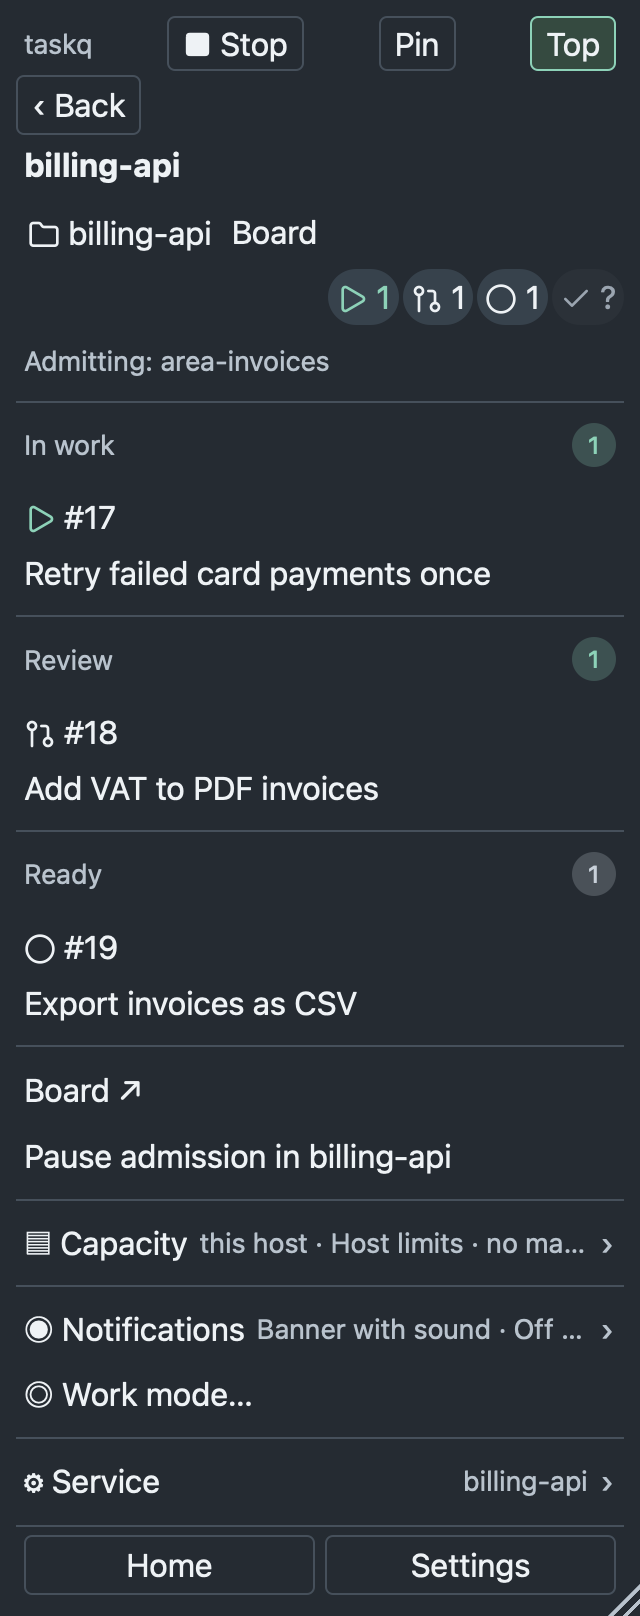
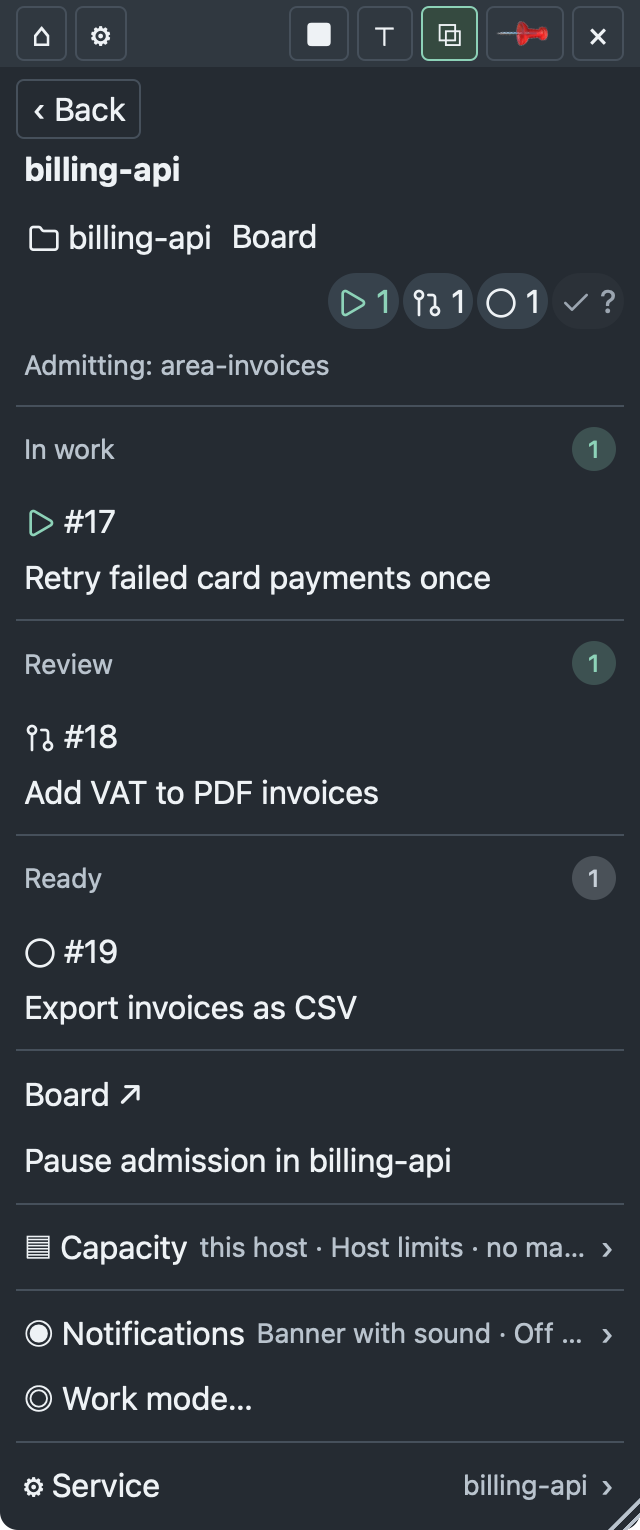
test(tray): record menu candidate evidence and screenshot provenance
Task: https://github.com/taskqorg/taskq/issues/1326

diff --git a/docs/design/evidence/menu-1326/README.md b/docs/design/evidence/menu-1326/README.md
@@ -10,7 +10,11 @@ The header is outside the scrolling content. Home and Settings move into it; Pin
 
 ## Before and after
 
-Baseline: `3c6e2a65`. `before/` uses the repository screenshot fixture and native WKWebView, `tray --snapshot DIR --route home,icon`. `after/` contains the first implementation draft; `candidate/` contains the final implementation capture. These are fixture observations, not installed-service qualification.
+Baseline: `3c6e2a65`. `before/` uses the repository screenshot fixture and native WKWebView, `tray --snapshot DIR --route home,icon`. `after/` contains the first implementation draft; `candidate/` contains the final implementation capture. These are fixture observations, not installed-service qualification. Candidate UI sources are commit `4dad5e60551da7e63c250ea0eff6d81893fce236`; README provenance is in `docs/shots/manifest.json`.
+
+Before: [dark](before/popover-dark-home-16.png), [light](before/popover-light-home-16.png). Candidate: [dark 20 px](candidate/popover-dark-home-20.png), [light 16 px](candidate/popover-light-home-16.png). These candidate images, the refreshed README project image and both active Summary icons were visually inspected: controls and content remain visible without overlap. This is not owner acceptance.
+
+`empty/` uses the same fixture with tasks and events cleared to show the approved compact-Q fallback.
 
 - Before: the actual controller's `head()` failed `assert.match(..., /data-route="home"/)` (A2). After: the navigation component check passes with Home and Settings in the header.
 - Before: the content-fit browser check failed when a tall viewport navigated to shorter content. After: measurement uses the inner content block; the same check passes.
@@ -21,7 +25,7 @@ Baseline: `3c6e2a65`. `before/` uses the repository screenshot fixture and nativ
 
 - `python3 scripts/check.py --base origin/main`: sandbox-blocked at the full Rust suite under worker authority. 397 passed, 16 failed, 34 ignored. Failures include explicit worker refusals for host installation, host policy and Stop/restart; related receipt expectations fail. No authority flags were removed. This is not a passing canonical gate.
 - Offline `cargo run --locked -- selftest`: 85 fold traces and format checks pass; telemetry commits. Board remains unknown because the offline flag is set.
-- Focused icon, anchor, persistence, Node and affected browser outcomes are recorded in the PR. Browser checks are Chromium instruments, not native rubber-band proof.
+- Focused checks pass: five `summary_` tests, the anchor geometry test and persisted Pin/position test. All Node component checks pass, plus the window, Home proposal and answer browser instruments. Browser checks are Chromium evidence, not native rubber-band proof.
 - An isolated macOS candidate was exercised through native controls: content scrolled beneath the stationary header; Top toggled independently; Fixed, bottom and top modes cycled; Pin toggled. Its saved settings reflected these operations. The fixture was stopped afterward. This does not qualify the installed application, notification banners or Windows.
 - Both window-targeted and rectangle-targeted native video capture exited 1 without diagnostics. No recording was produced; the cause is unknown. OS permissions were not changed. A8's continuous bounce/control recording remains blocked.
 - Native Cmd+Tab/Alt+Tab and notification-banner icon acceptance remain unverified. Packaging/source changes do not prove those interactions.
